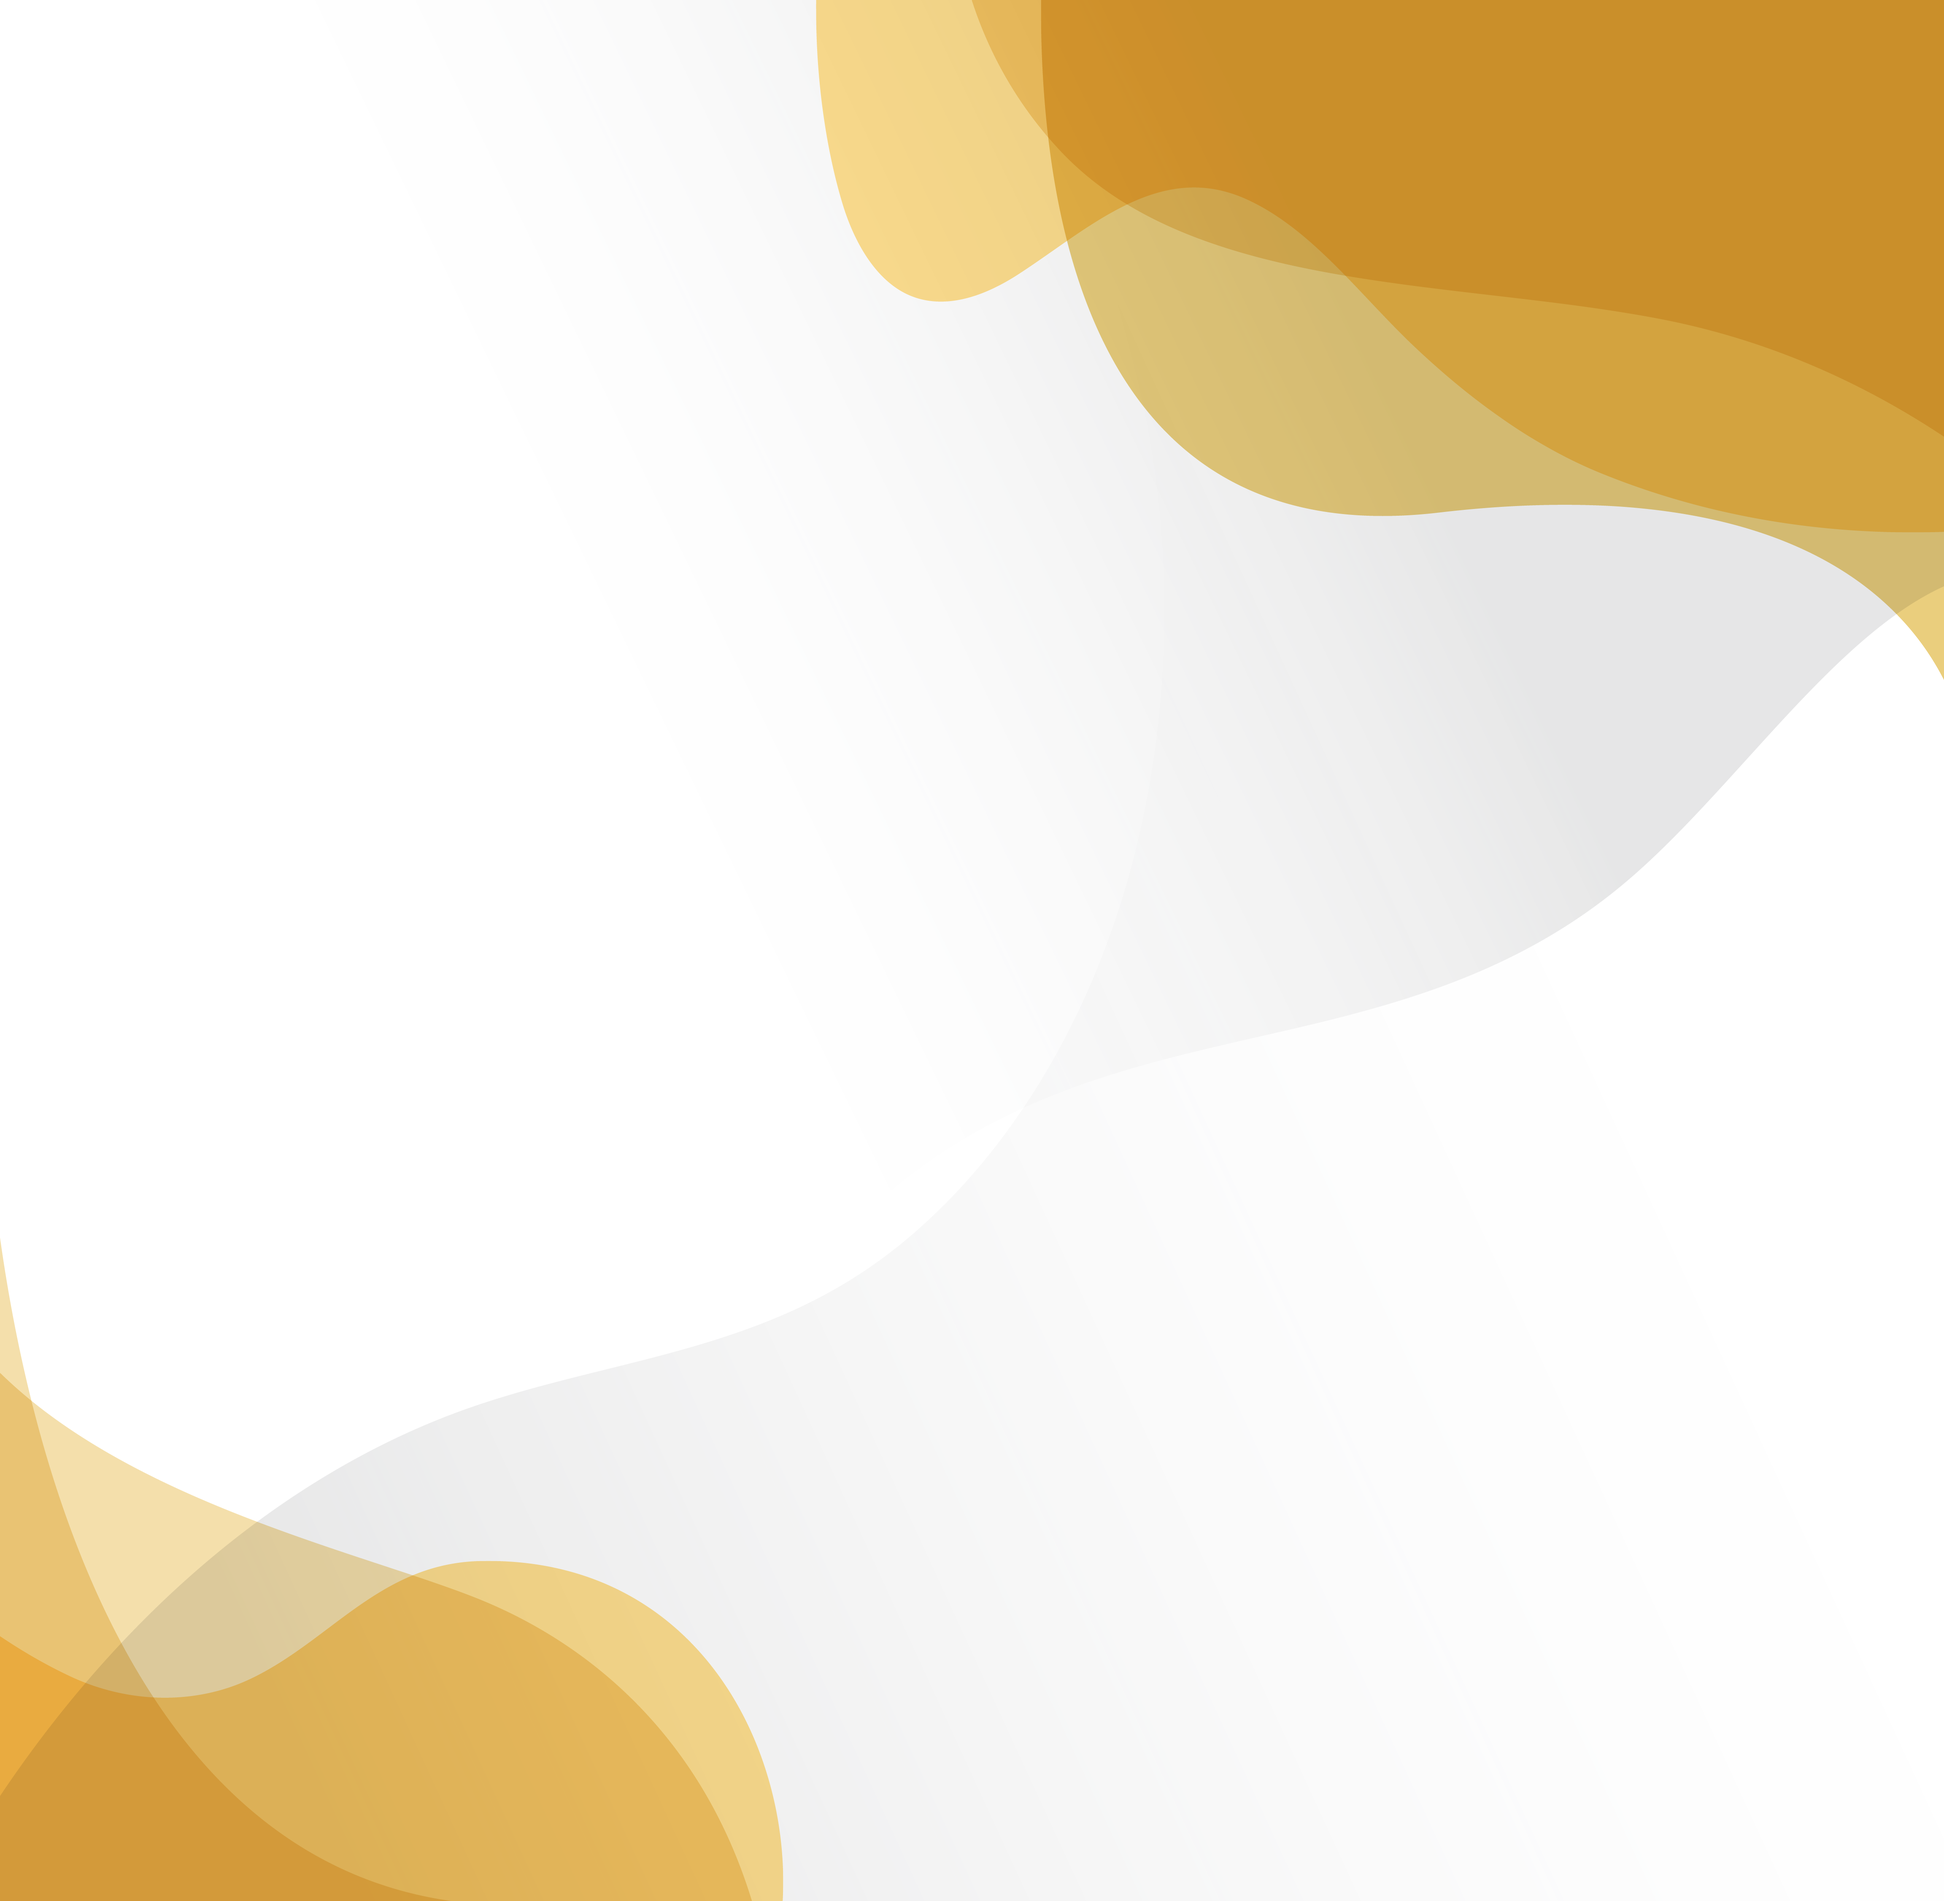
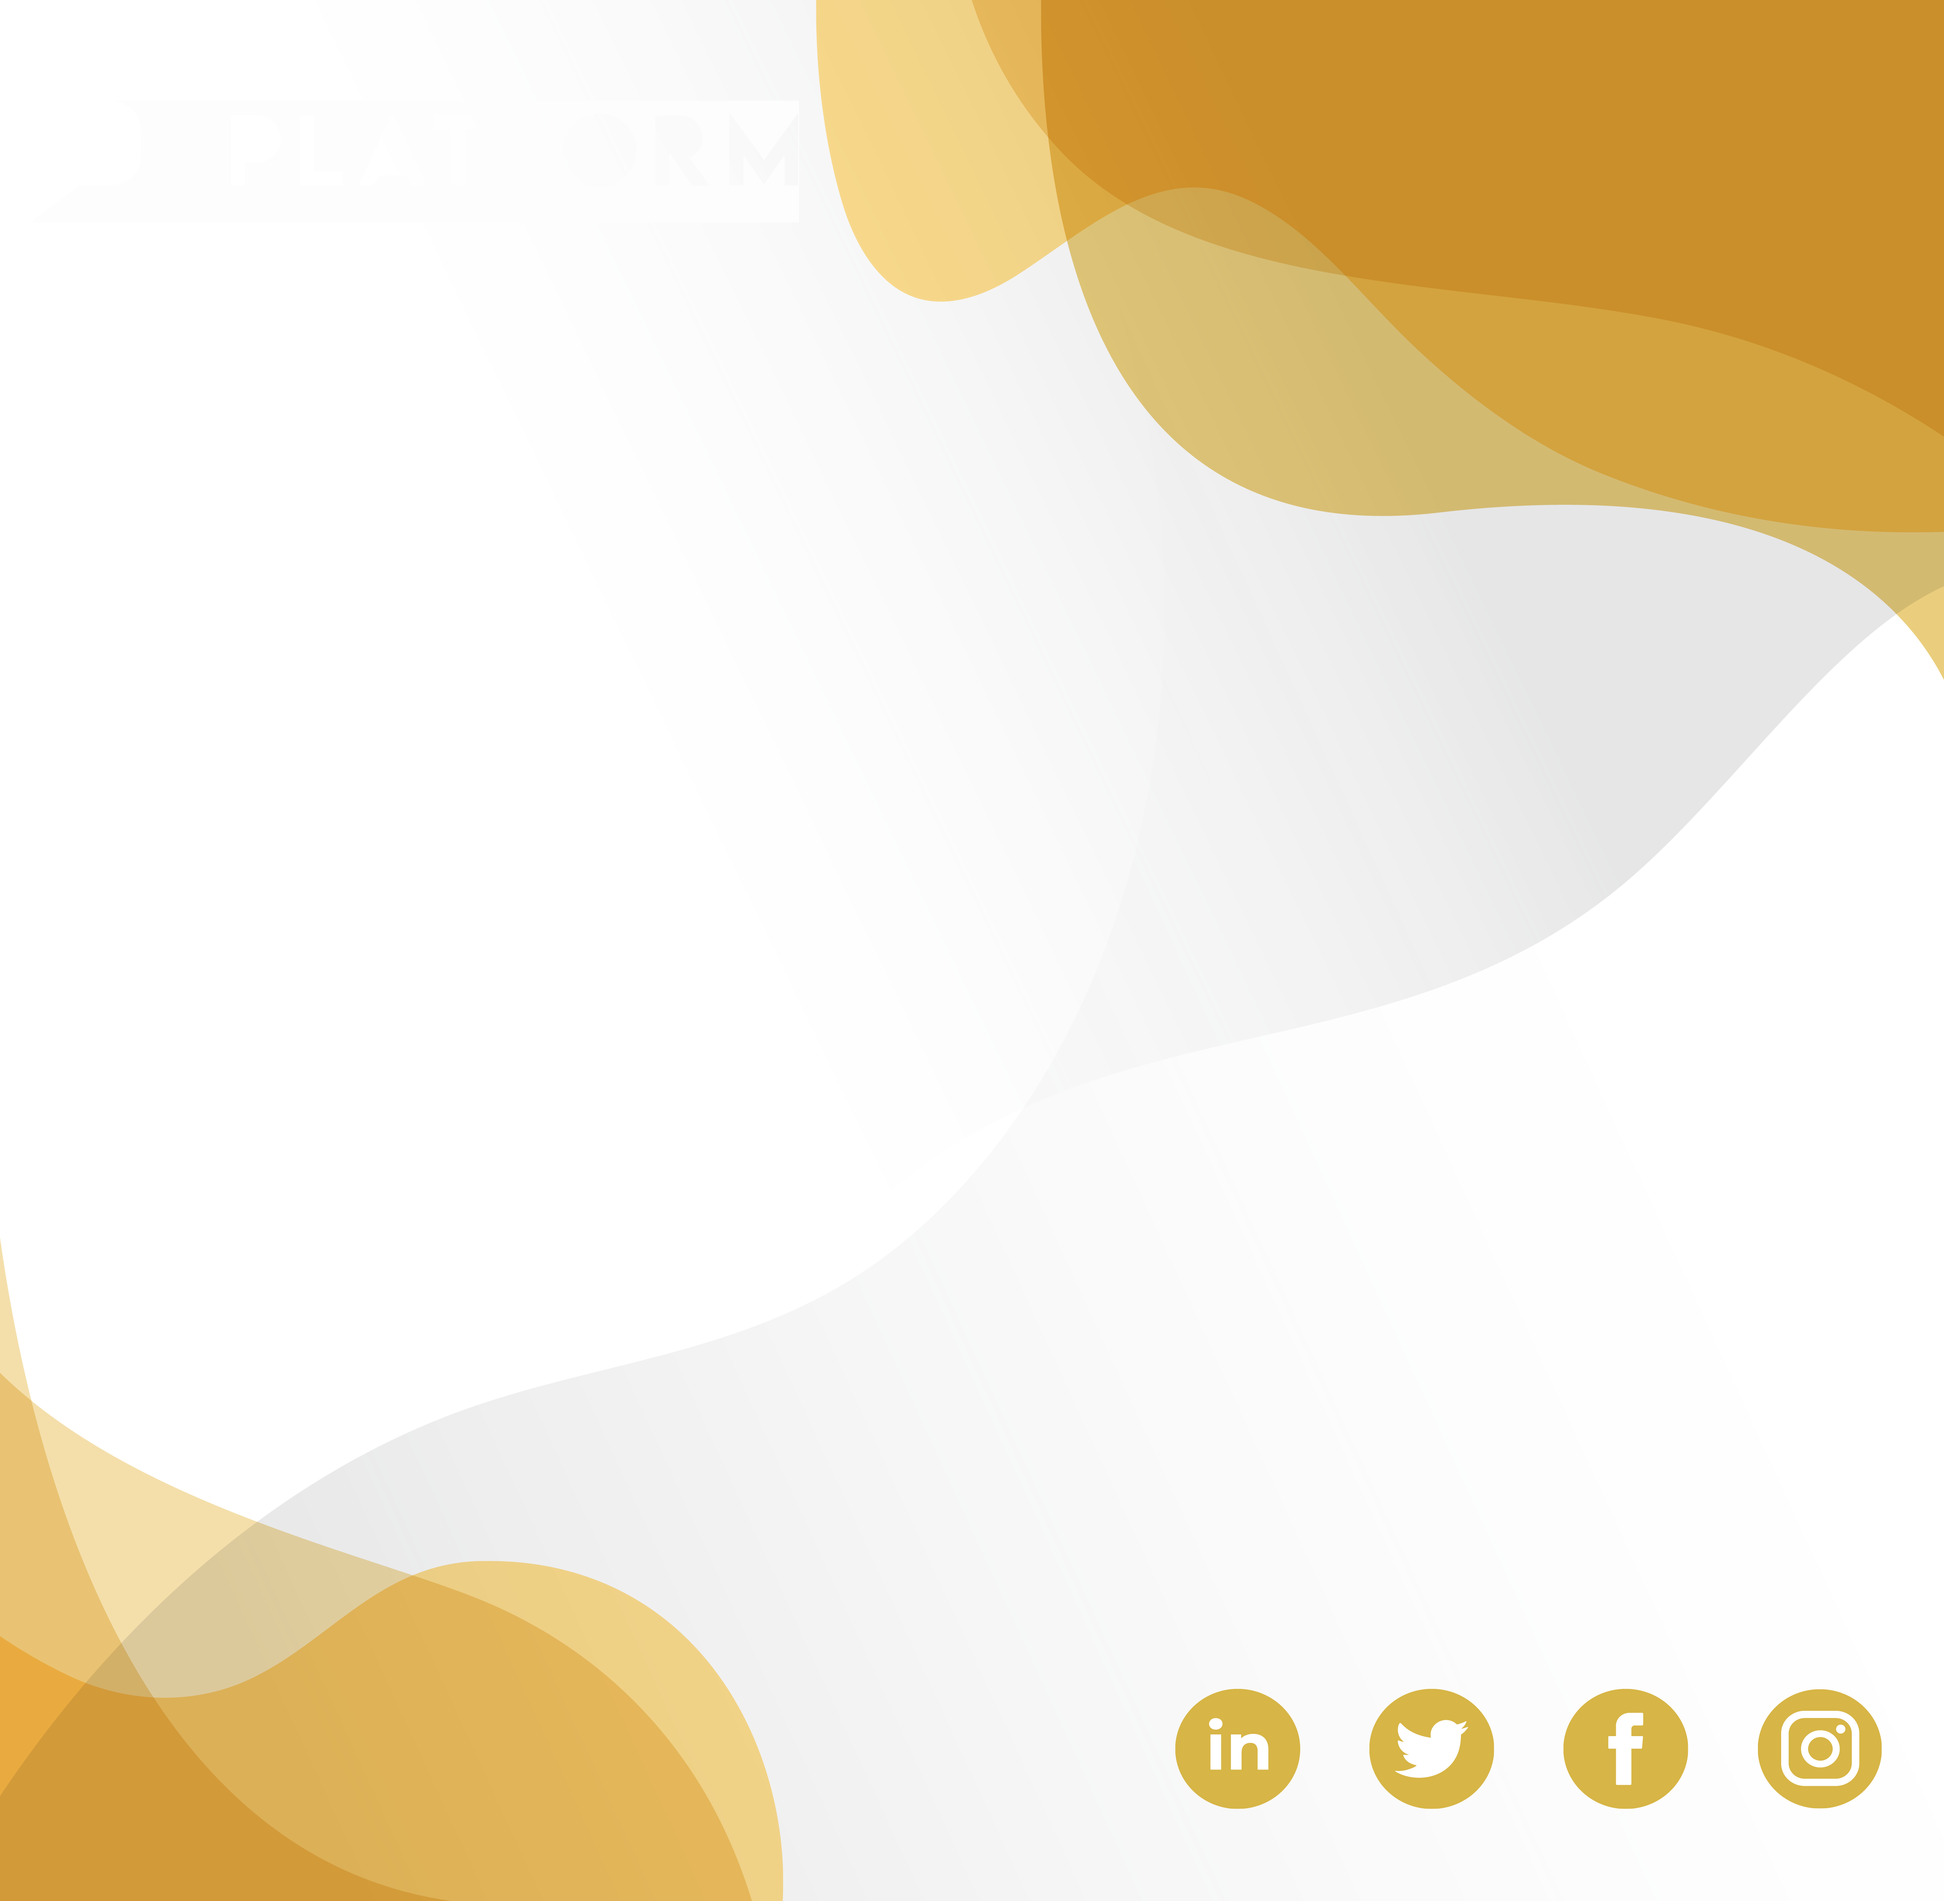
project init

Changed region(s): [[0.5938, 0.8696, 0.875, 0.9627], [0.9062, 0.8696, 0.9688, 0.9627]]

diff --git a/signature1.html b/signature1.html
@@ -108,34 +108,6 @@
 		max-width: 10px;
 		margin: auto;
 	}
-	ul.email_templete_icons {
-		display: table;
-		margin-top: 35px;
-		margin-right: 6px;
-		float: right;
-	}
-	ul.email_templete_icons li {
-		margin: 0 5px;
-		display: inline-block;
-		float: left;
-	}
-	ul.email_templete_icons li a {
-		background-color: #D3AF37;
-		border-radius: 50%;
-		width: 26px;
-		height: 26px;
-		text-align: center;
-		line-height: 23px;
-		display: flex;
-		flex-wrap: wrap;
-		align-items: center;
-		justify-content: center;
-		box-sizing: border-box;
-	}
-	ul.email_templete_icons li a img {
-		max-width: 12px;
-		max-height: 12px;
-	}
 </style>
 </head>
 <body>
@@ -155,20 +127,6 @@
 					</li>
 				</ul>
 			</div>
-			<ul class="email_templete_icons">
-				<li>
-					<a href="#"><img src="in_icon.png"></a>
-				</li>
-				<li>
-					<a href="#"><img src="twitter_icon.png"></a>
-				</li>
-				<li>
-					<a href="#"><img src="fb_icon.png"></a>
-				</li>
-				<li>
-					<a href="#"><img src="insta_icon.png"></a>
-				</li>
-			</ul>
 		</div>
 	</div>
 </body>
